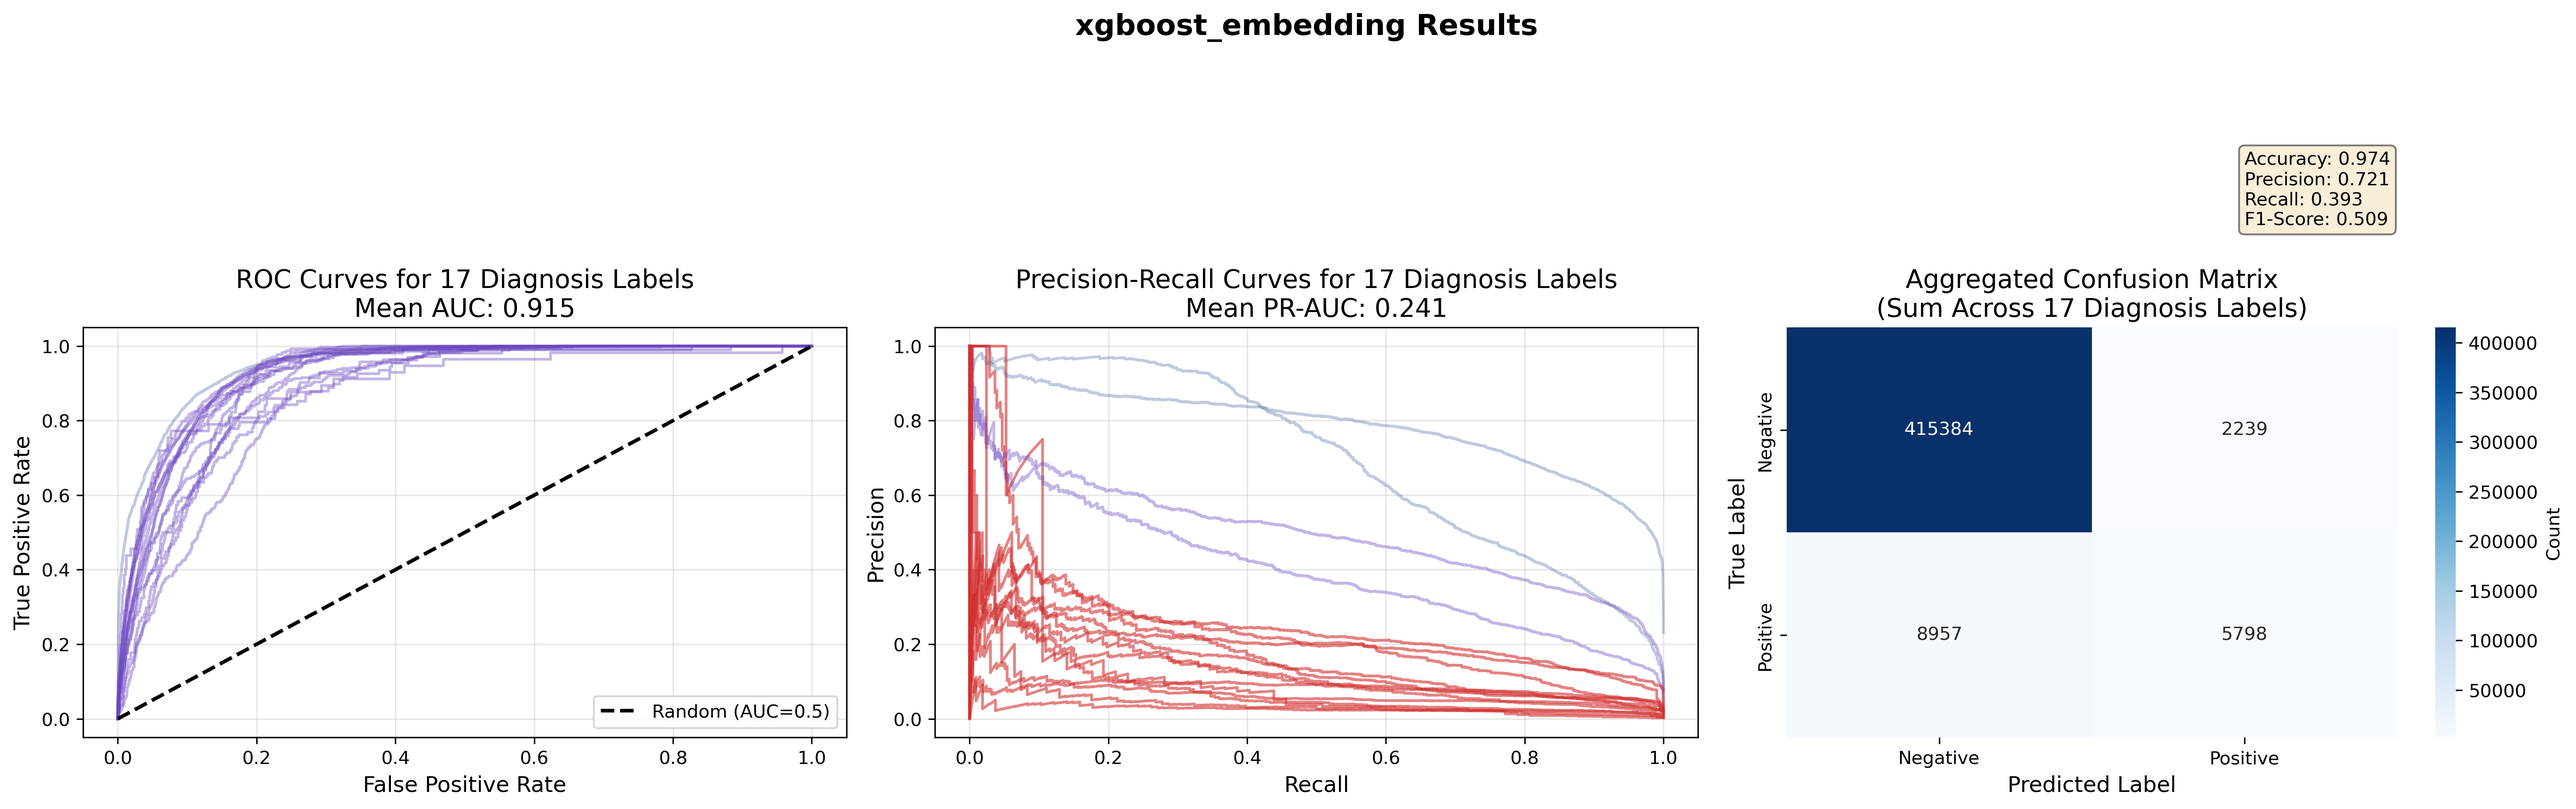
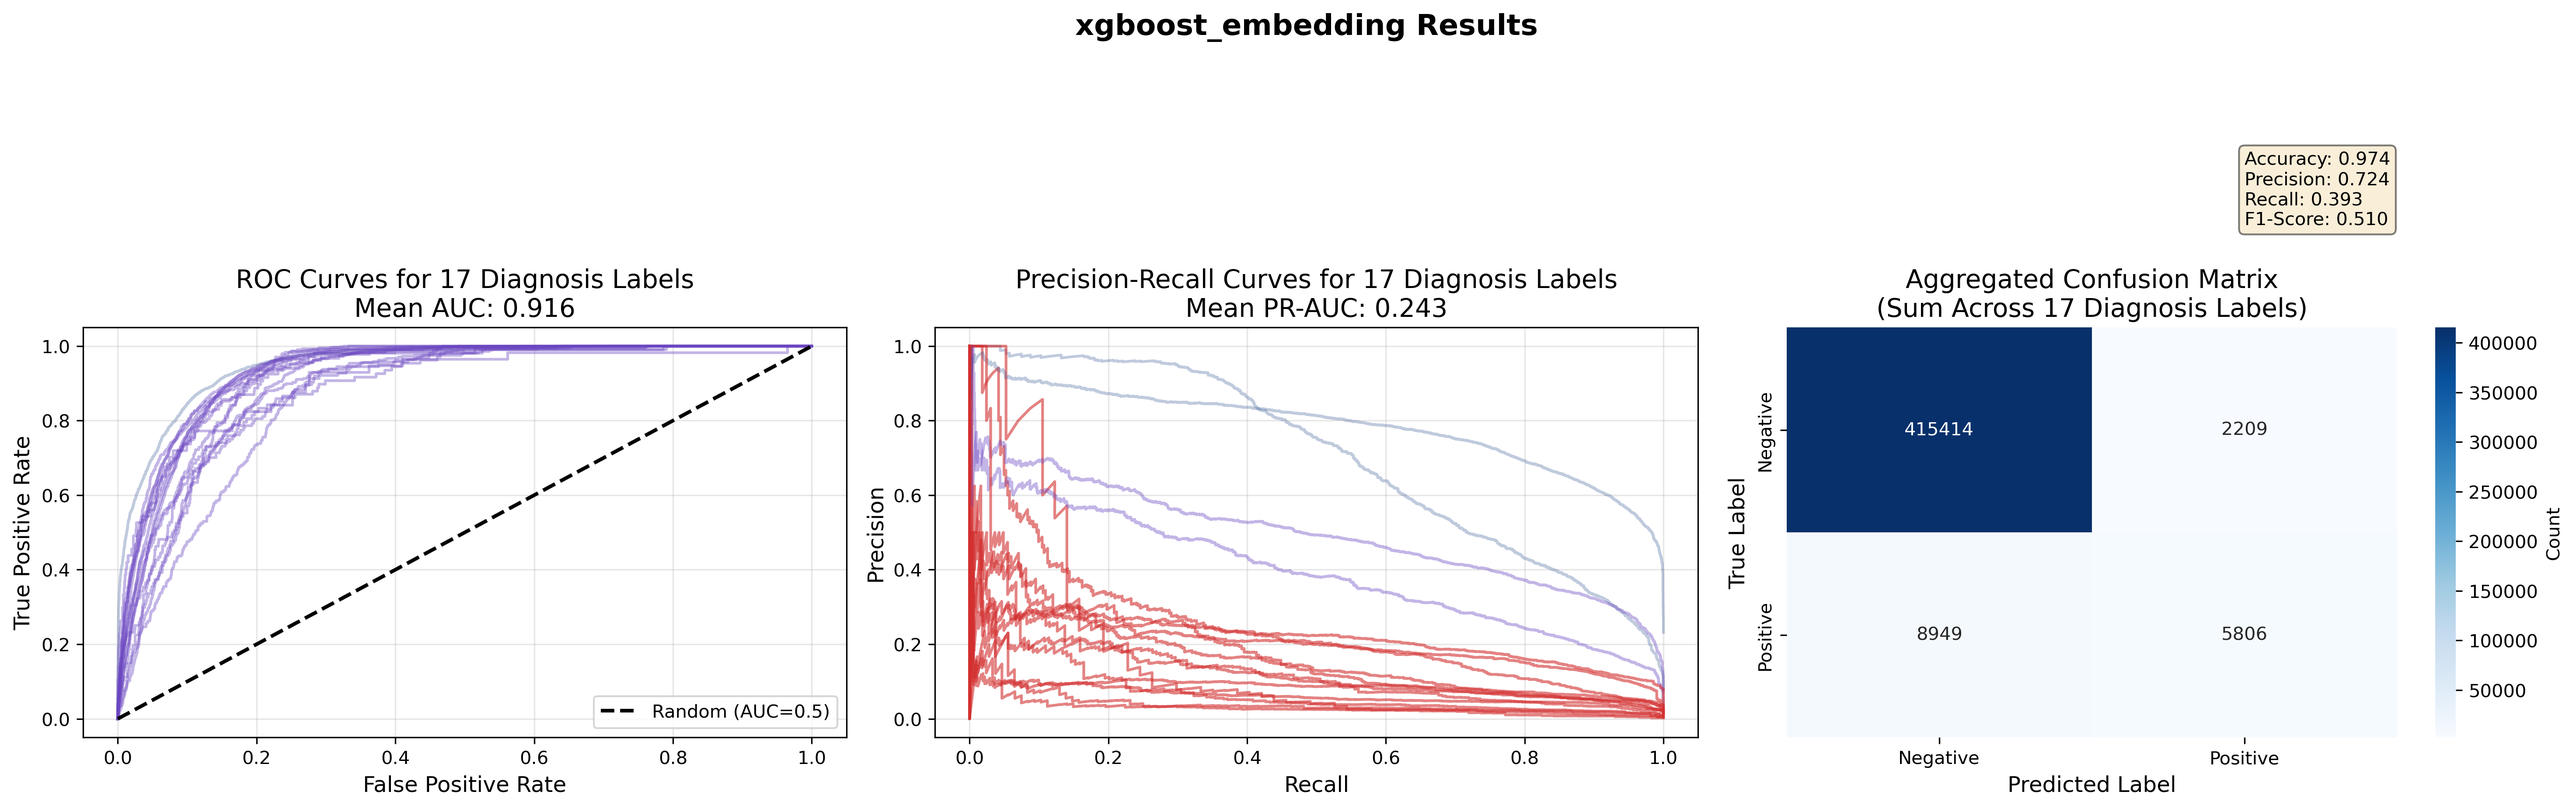
Adding better xgboost_embeddings

diff --git a/src/models/xgboost_embedding.py b/src/models/xgboost_embedding.py
@@ -55,11 +55,9 @@ def _read_ecg_signal(path, target_samples=10000):
     Pads with zeros if the signal is shorter than target_samples.
     """
     rec = wfdb.rdrecord(path)
-    sig = rec.p_signal.T.astype(np.float32)  # (channels, time) — cast once here
-
+    sig = rec.p_signal.T.astype(np.float32)
     if sig.shape[1] < target_samples:
         sig = np.pad(sig, ((0, 0), (0, target_samples - sig.shape[1])))
-
     return sig[:, :target_samples]
 
 
@@ -89,10 +87,13 @@ def extract_ecg_embeddings(df, config, batch_size=64, io_workers=8):
     all_embeddings = np.zeros((n_records, emb_dim), dtype=np.float32)
 
     def _load_record(args):
-        """Load and preprocess one record; returns (row_idx, seg1, seg2) or raises."""
         row_idx, path = args
-        sig = _read_ecg_signal(path)           # (channels, 10000), float32
-        return row_idx, sig[:, :5000], sig[:, 5000:10000]
+        try:
+            sig = _read_ecg_signal(path)
+            return row_idx, sig[:, :5000], sig[:, 5000:10000]
+        except Exception as e:
+            logger.warning(f"Skipping record {row_idx} ({path}): {e}")
+            return None
 
     for batch_start in tqdm(
         range(0, n_records, batch_size), desc="Extracting ECG embeddings"
@@ -109,15 +110,17 @@ def extract_ecg_embeddings(df, config, batch_size=64, io_workers=8):
             futures = {pool.submit(_load_record, args): args[0] for args in batch_args}
             for future in as_completed(futures):
                 row_idx = futures[future]
-                idx, seg1, seg2 = future.result()
-                loaded[idx] = (seg1, seg2)
+                result = future.result()
+                if result is not None:
+                    idx, seg1, seg2 = result
+                    loaded[idx] = (seg1, seg2)
 
         if not loaded:
             continue
 
         # Preserve order — sort by row_idx so embedding rows match indices
         sorted_items = sorted(loaded.items())
-        row_indices  = [idx for idx, _ in sorted_items]
+        row_indices = [idx for idx, _ in sorted_items]
         segs1 = np.stack([s1 for _, (s1, _) in sorted_items])  # (B, C, 5000)
         segs2 = np.stack([s2 for _, (_, s2) in sorted_items])  # (B, C, 5000)
 
@@ -166,7 +169,7 @@ def prepare_embedding_features(model_df):
     embedding_cols = [col for col in model_df.columns if col.startswith("emb_")]
 
     emb_df = model_df[embedding_cols].apply(pd.to_numeric, errors="coerce").fillna(0)
-    X      = pd.concat([X.reset_index(drop=True), emb_df.reset_index(drop=True)], axis=1)
+    X = pd.concat([X.reset_index(drop=True), emb_df.reset_index(drop=True)], axis=1)
     cols_to_scale = cols_to_scale + [c for c in embedding_cols if c in X.columns]
 
     return X, y, y_features, cols_to_scale
@@ -193,7 +196,7 @@ def plot_kfold_loss_curves(
     """
     Path(out_path).mkdir(parents=True, exist_ok=True)
 
-    X_arr      = X.values
+    X_arr = X.values
     cv_results = {}
 
     for label in y.columns:
@@ -206,7 +209,7 @@ def plot_kfold_loss_curves(
         kf = StratifiedKFold(n_splits=n_splits, shuffle=True, random_state=random_state)
 
         train_loss_folds = np.zeros((n_splits, n_estimators))
-        val_loss_folds   = np.zeros((n_splits, n_estimators))
+        val_loss_folds = np.zeros((n_splits, n_estimators))
 
         for fold_idx, (train_idx, val_idx) in enumerate(kf.split(X_arr, y_arr)):
             X_tr, X_val = X_arr[train_idx], X_arr[val_idx]
@@ -227,10 +230,10 @@ def plot_kfold_loss_curves(
 
             evals = clf.evals_result()
             train_loss_folds[fold_idx] = evals["validation_0"]["logloss"]
-            val_loss_folds[fold_idx]   = evals["validation_1"]["logloss"]
+            val_loss_folds[fold_idx] = evals["validation_1"]["logloss"]
 
         mean_train = train_loss_folds.mean(axis=0)
-        mean_val   = val_loss_folds.mean(axis=0)
+        mean_val = val_loss_folds.mean(axis=0)
         best_round = int(np.argmin(mean_val))
 
         cv_results[label] = {
@@ -251,8 +254,8 @@ def plot_kfold_loss_curves(
             ax.plot(rounds, val_loss_folds[fold_idx], color="#D32F2F", alpha=0.15, linewidth=1)
 
         ax.plot(rounds, mean_train, color="#2E5090", linewidth=2.5, label="Train loss (mean)")
-        ax.plot(rounds, mean_val,   color="#D32F2F", linewidth=2.5, label="Val loss (mean)")
-        ax.axvline(best_round + 1, color="gray", linestyle="--", linewidth=1.5, label=f"Best round: {best_round + 1} (val={mean_val[best_round]:.4f})")
+        ax.plot(rounds, mean_val, color="#D32F2F", linewidth=2.5, label="Val loss (mean)")
+        ax.axvline(best_round + 1, color="gray", linestyle="--", linewidth=1.5, label=f"Best round: {best_round + 1} (val {mean_val[best_round]:.4f})")
 
         ax.set_xlabel("Boosting Round", fontsize=12)
         ax.set_ylabel("Log Loss", fontsize=12)
